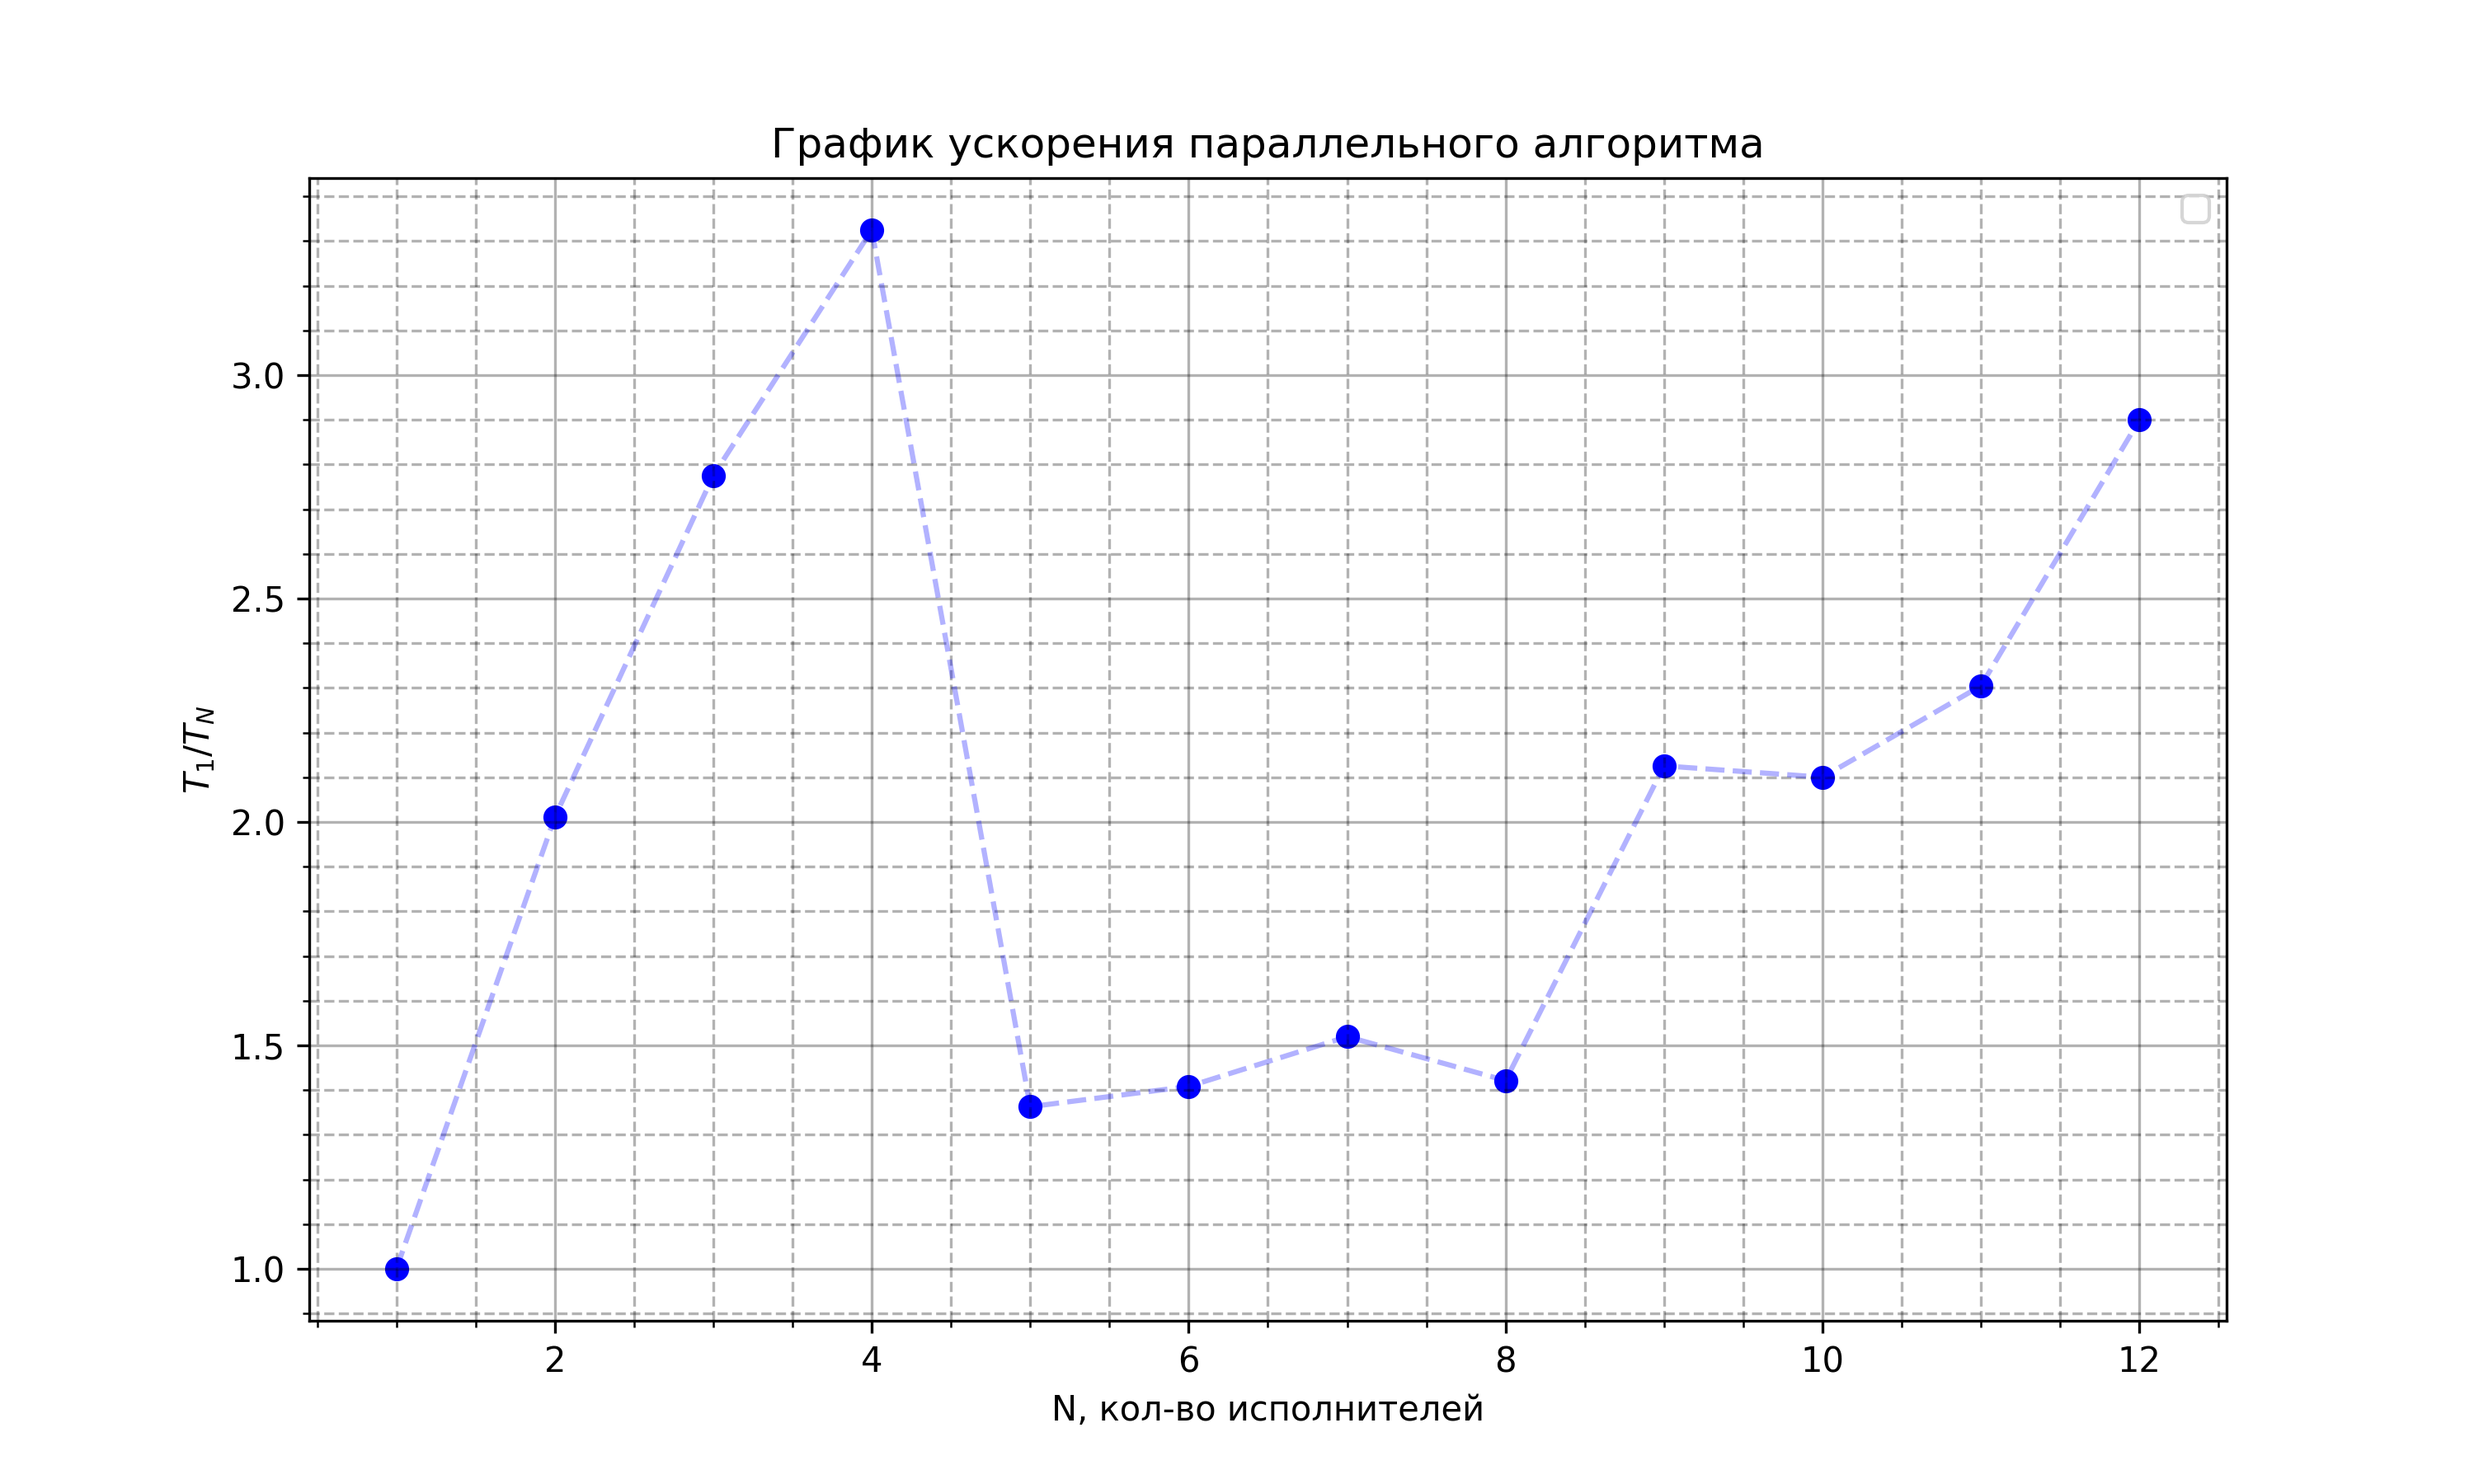
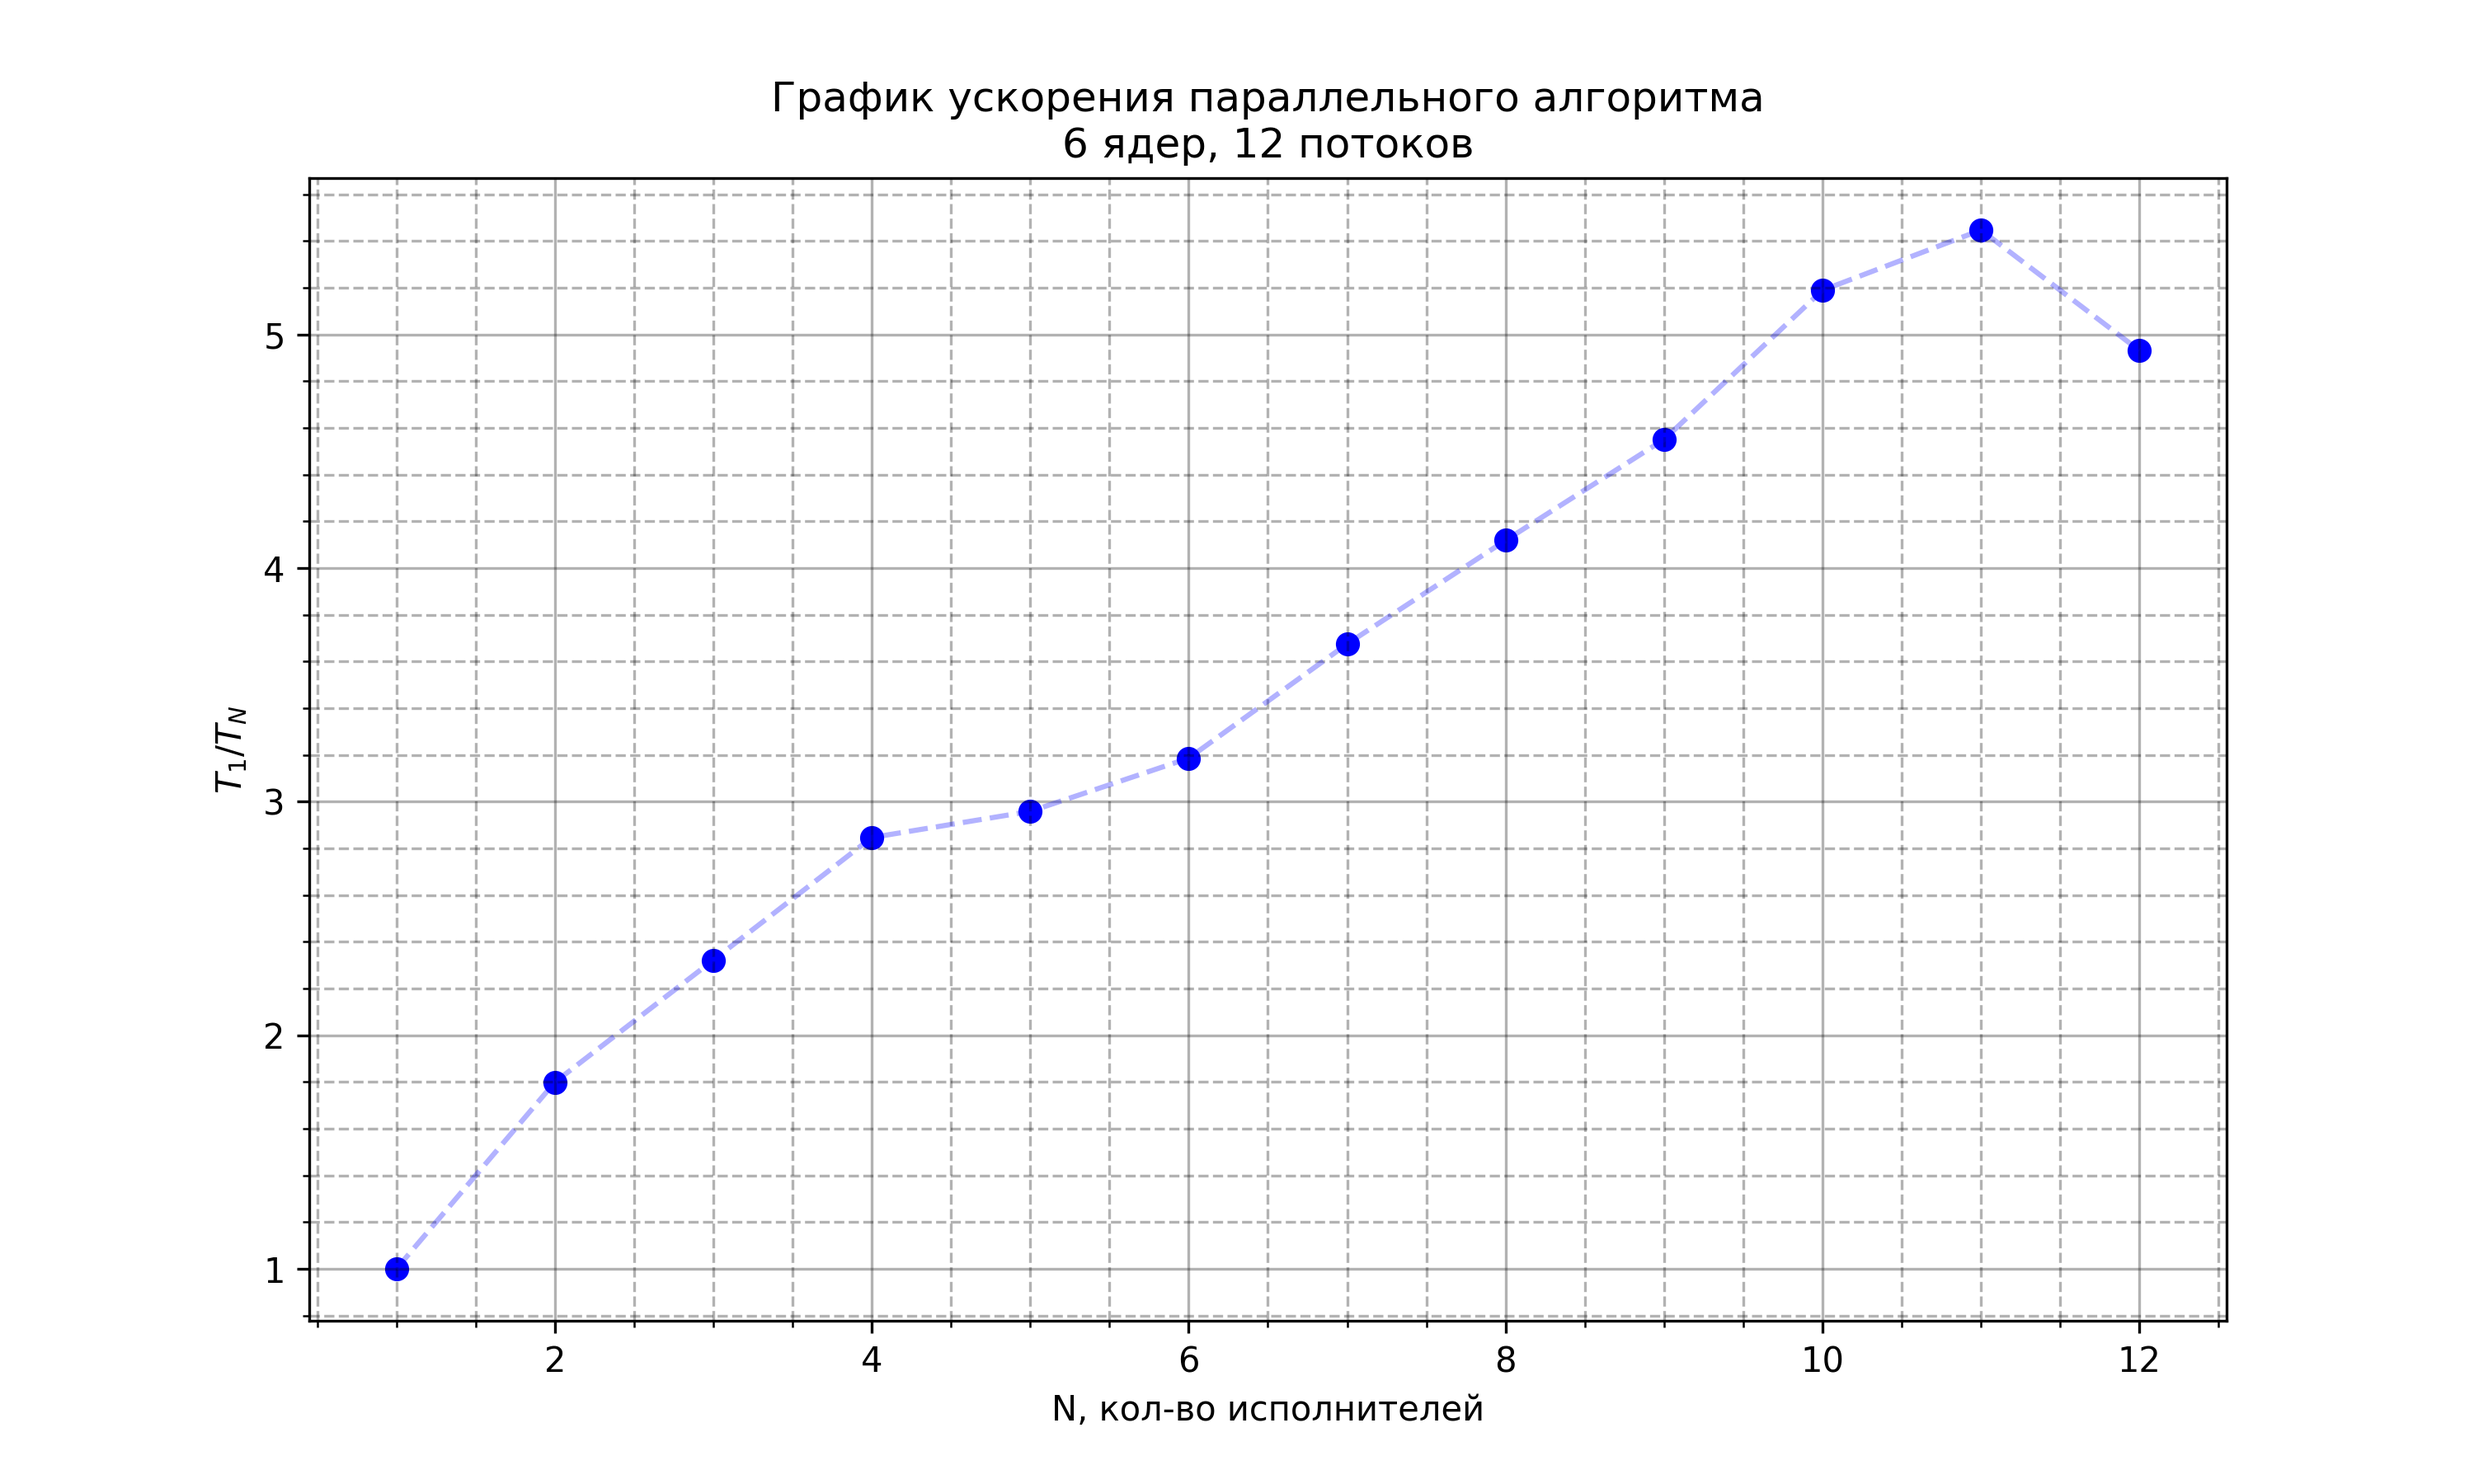
Игра жизнь по строкам график готов

diff --git a/3-life/plot_life.py b/3-life/plot_life.py
@@ -12,6 +12,6 @@ plt.grid(visible=True, which='major', color='black', linestyle='-', alpha = 0.3)
 plt.grid(visible=True, which='minor', color='black', linestyle='--', alpha = 0.3)
 plt.xlabel('N, кол-во исполнителей')
 plt.ylabel('$T_1/T_N$') 
-plt.title('График ускорения параллельного алгоритма')
+plt.title('График ускорения параллельного алгоритма\n6 ядер, 12 потоков')
 plt.minorticks_on()
 plt.savefig('life_accel.png')
